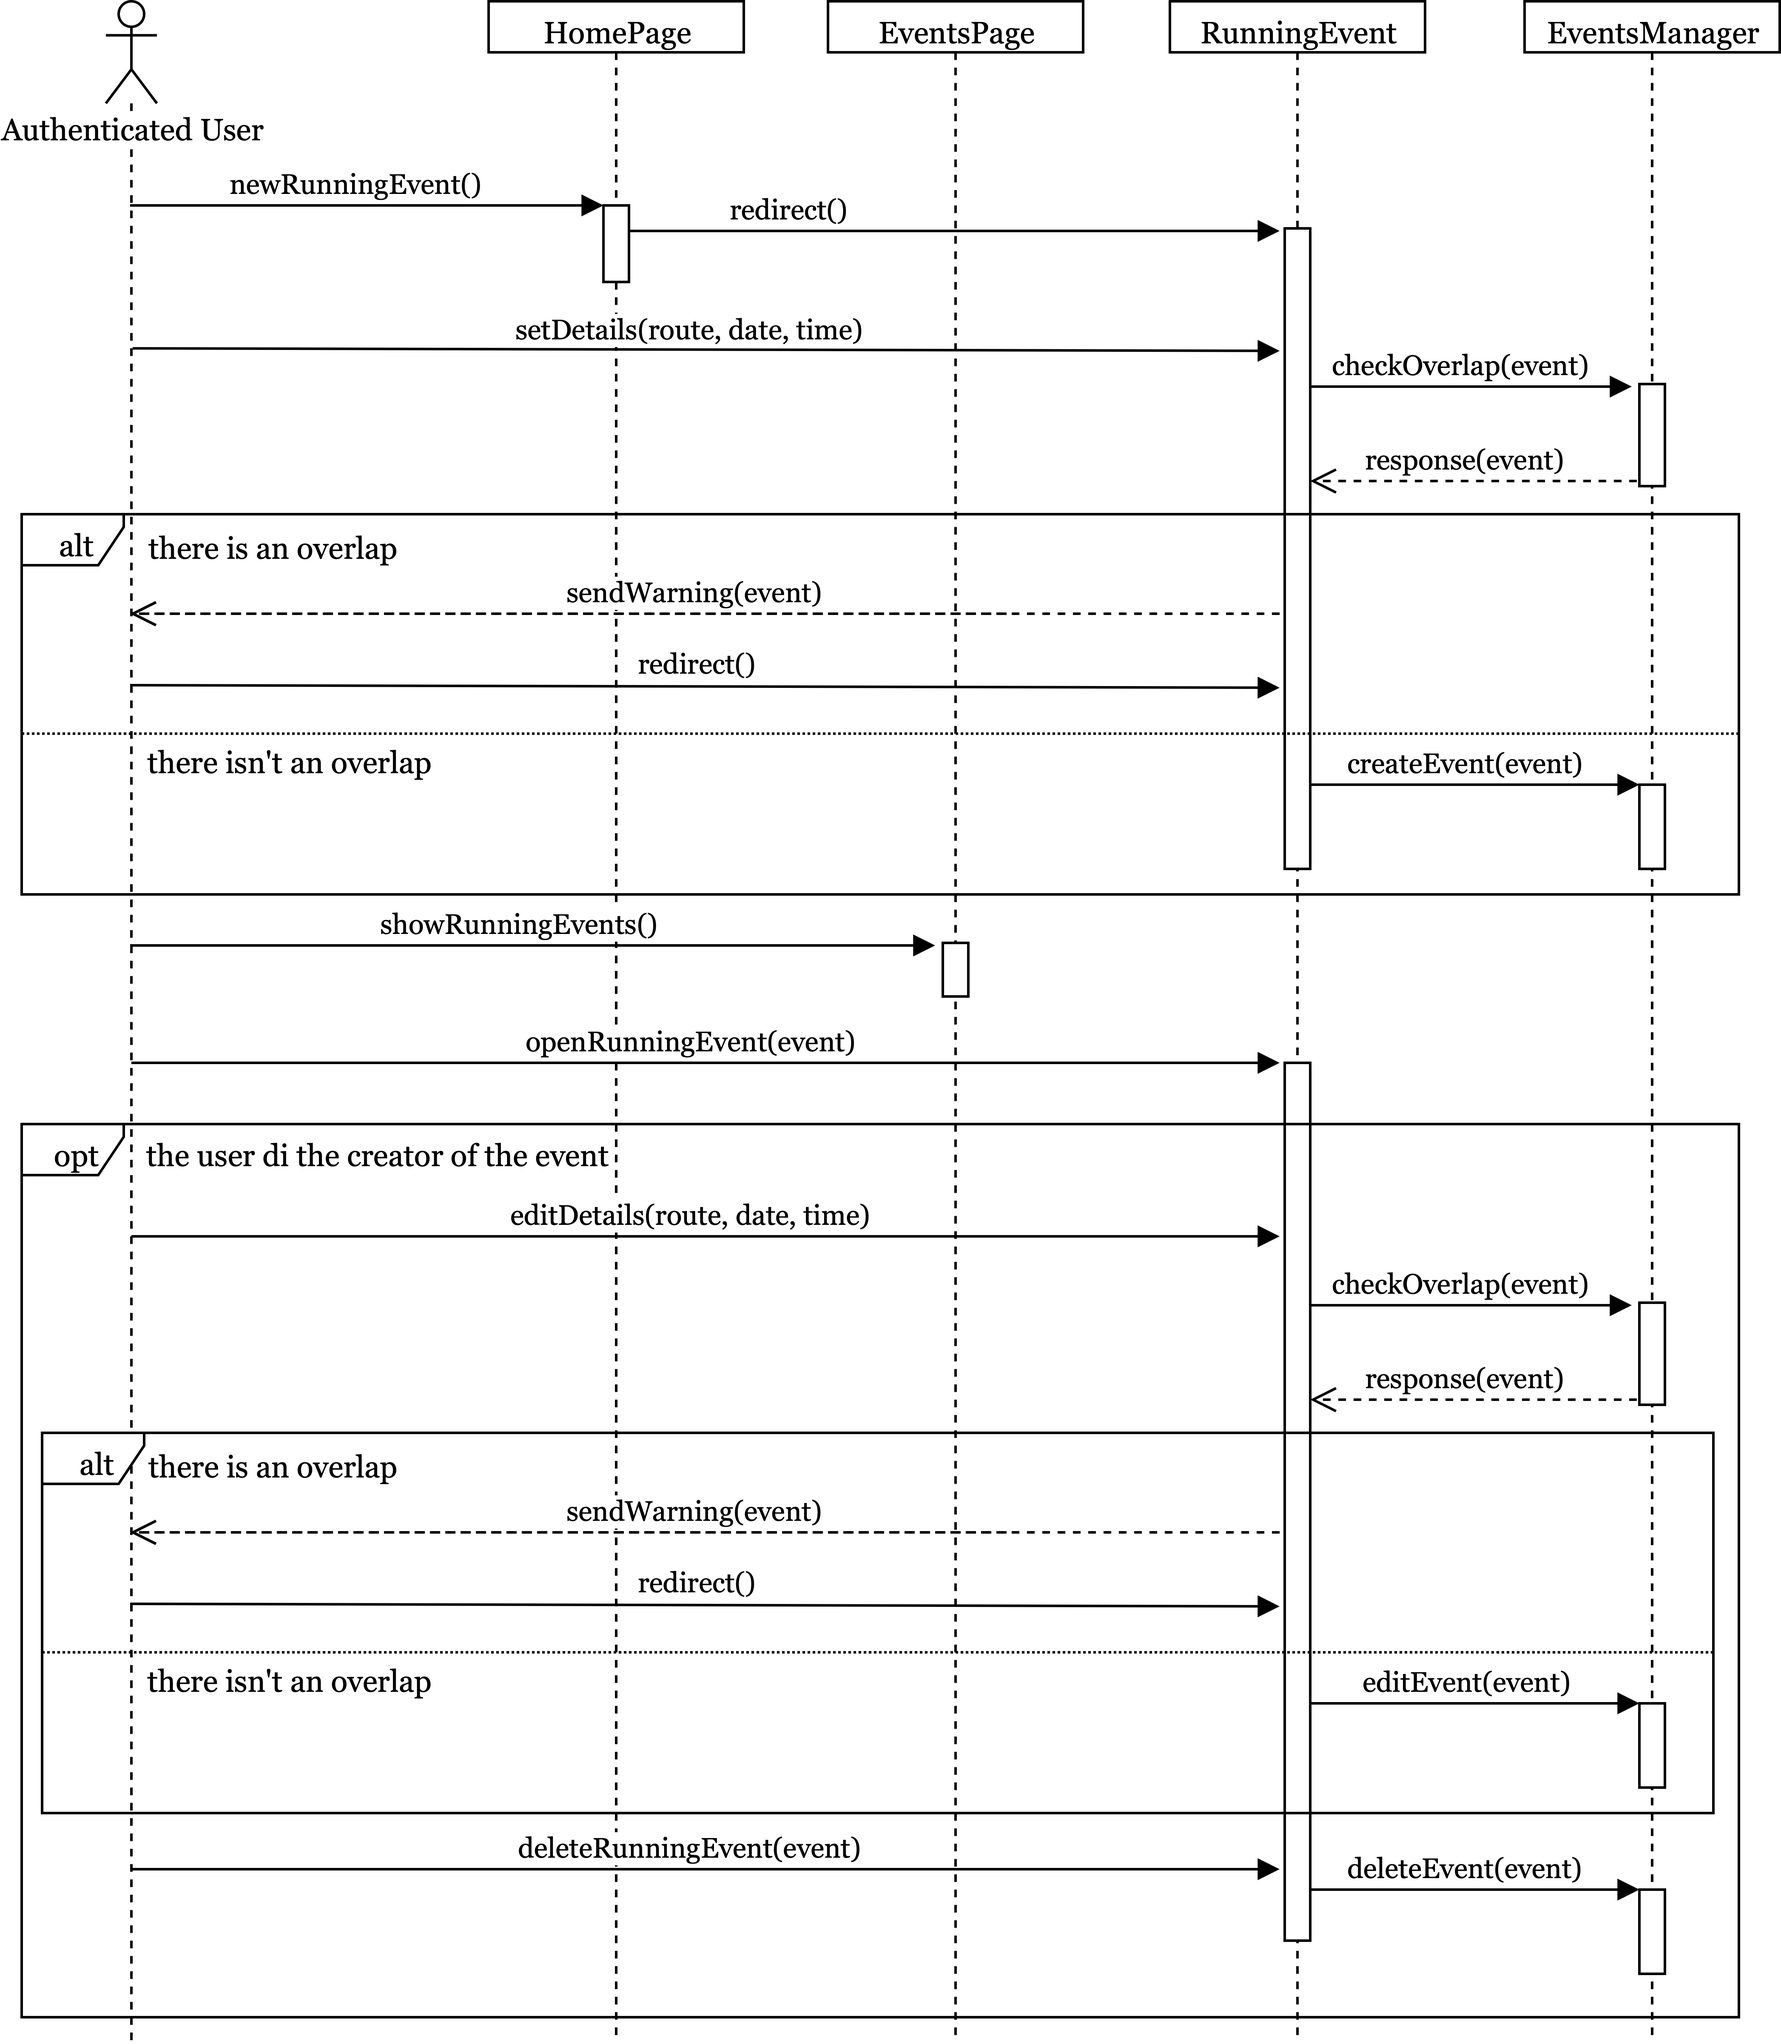
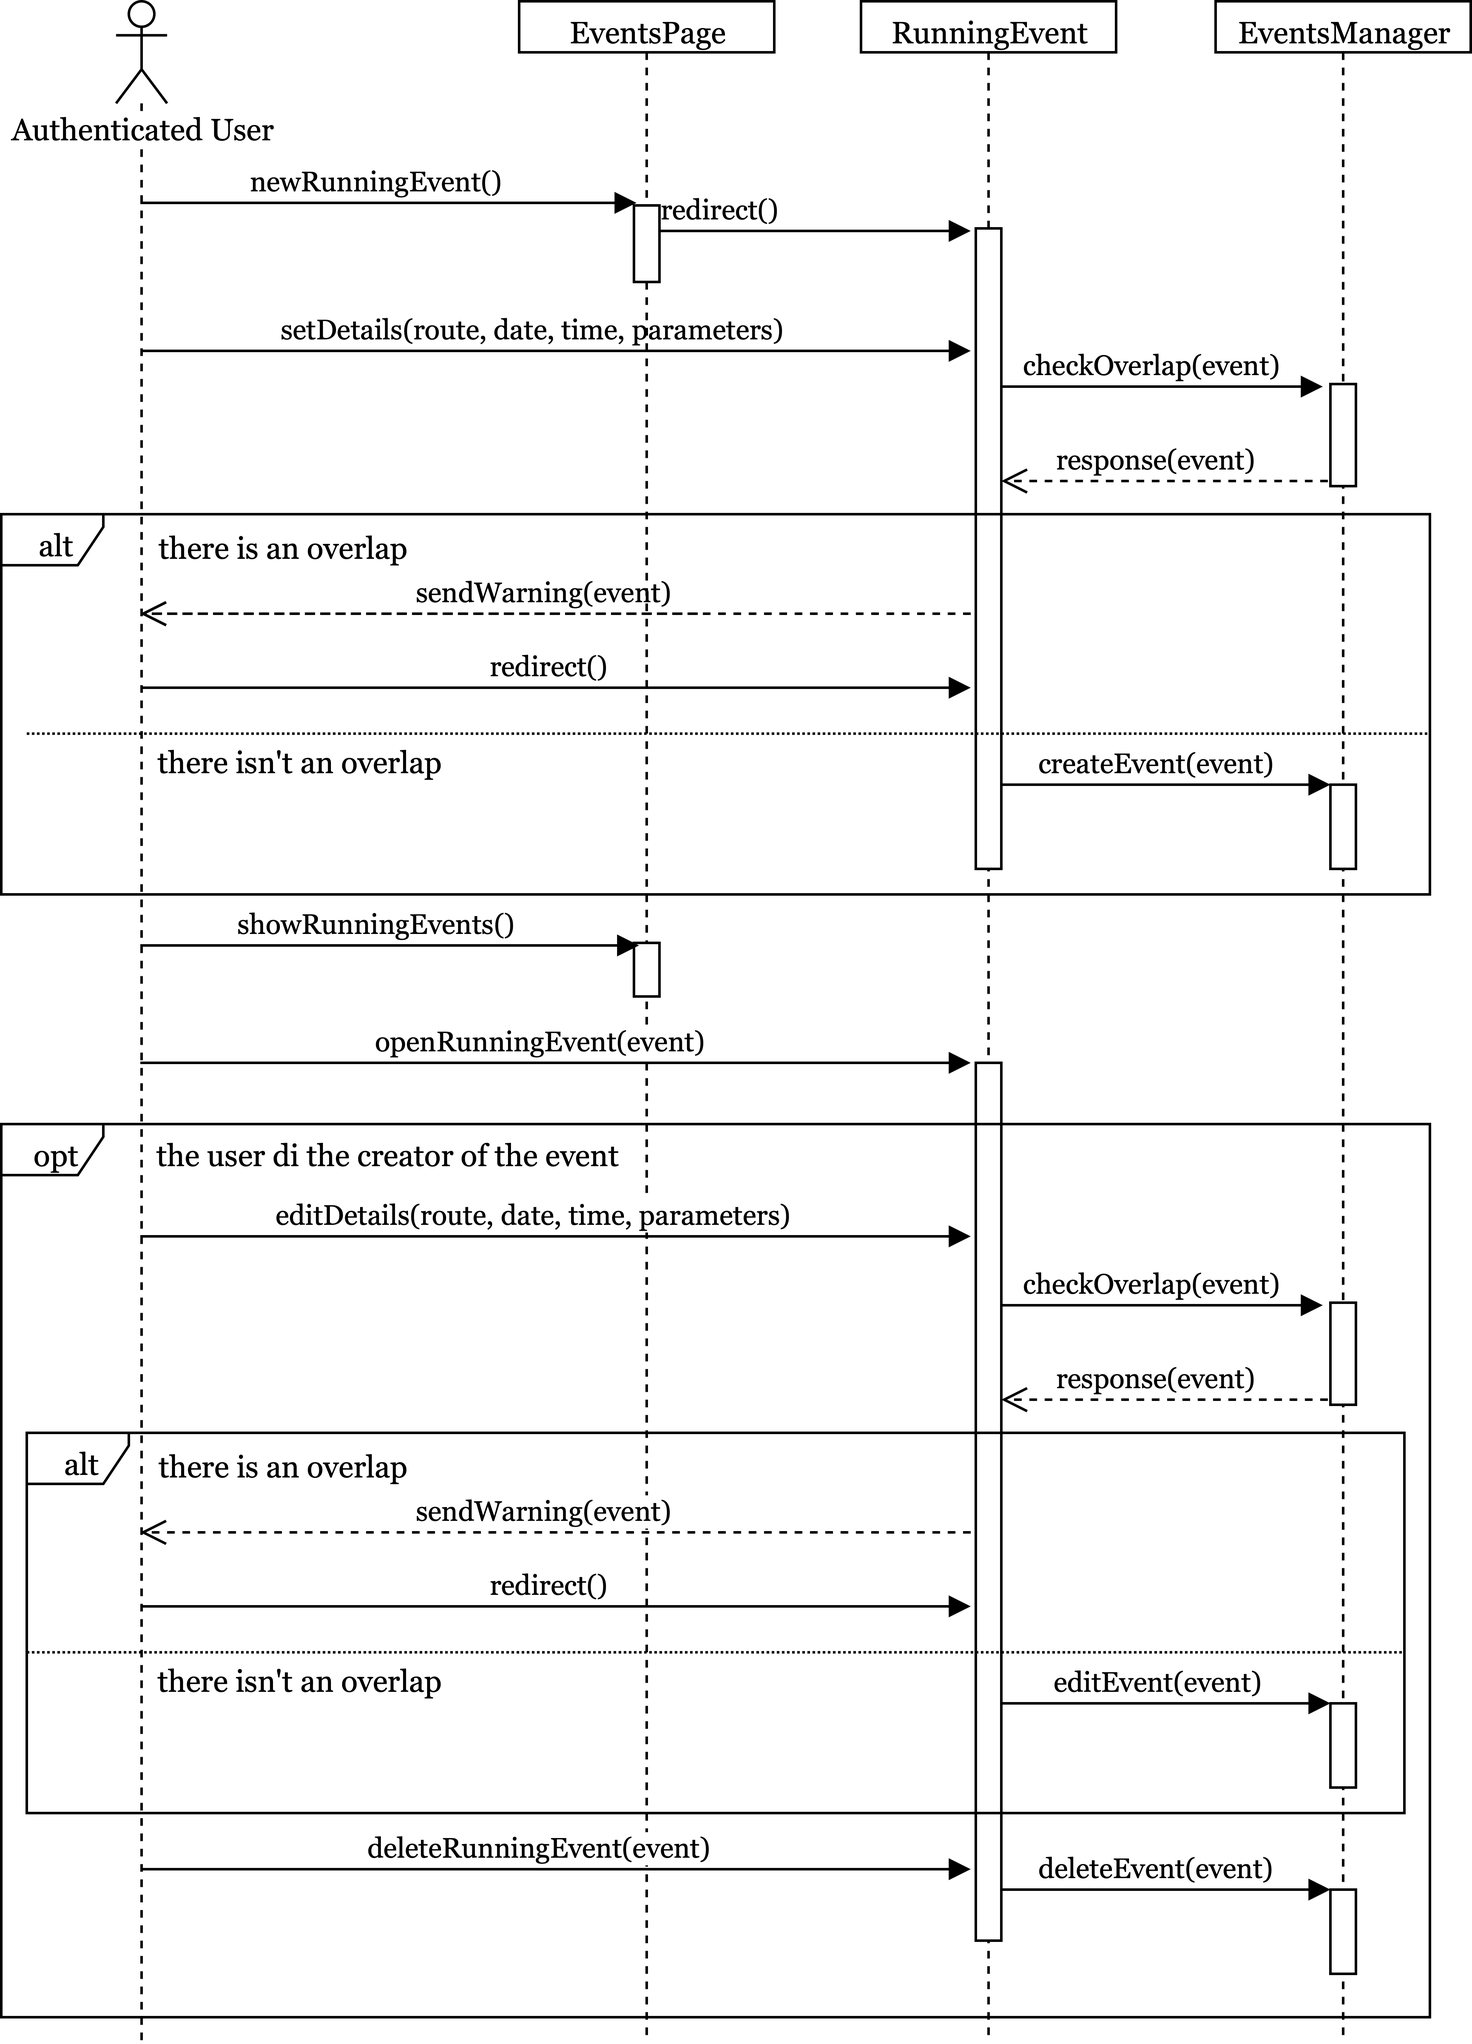
fix sqd4, use case and effort

diff --git a/RASD/sections/specificRequirements.tex b/RASD/sections/specificRequirements.tex
@@ -348,12 +348,12 @@ Communication between a third party company and our system will go through HTTPS
 			\hline
 			\textbf{Actor} & Authenticated User\\
 			\hline
-			\textbf{Entry condition} & The authenticated user is on the home page and wants to organize a running event.\\
+			\textbf{Entry condition} & The authenticated user is on the events page and wants to organize a running event.\\
 			\hline
 			\textbf{Flow of events} & \begin{enumerate}
 				\linespread{0}\item The authenticated user clicks "New running event".
-				\linespread{0}\item The authenticated user selects the route, date and time.
-				\linespread{0}\item The authenticated user clicks "Confirm".
+				\linespread{0}\item The authenticated user selects the route, date, time and fills all mandatory fields.
+				\linespread{0}\item The authenticated user clicks "Done".
 			\end{enumerate}\\
 			\hline
 			\textbf{Exit condition} & The running event is organized and now users can view it and enroll to it.\\
@@ -420,7 +420,7 @@ Communication between a third party company and our system will go through HTTPS
 			\hline
 			\textbf{Flow of events} & \begin{enumerate}
 				\linespread{0}\item The authenticated user clicks on "Edit".
-				\linespread{0}\item The authenticated user changes route, date and time.
+				\linespread{0}\item The authenticated user changes route, date and time or any other field.
 				\linespread{0}\item The authenticated user clicks "Save".
 			\end{enumerate}\\
 			\hline
@@ -475,7 +475,11 @@ Communication between a third party company and our system will go through HTTPS
 			\hline
 			\textbf{Exit condition} & The user is enrolled to the running event selected.\\
 			\hline
-			\textbf{Exception}\\
+			\textbf{Exception} & \begin{enumerate}
+				\linespread{0}\item No more participants are allowed in the run.
+			\end{enumerate}\\
+			\hline
+			\textbf{Note} & When an exception occurs the user is not enrolled to the event.\\
 			\hline
 		\end{tabular}
 	\end{center}

diff --git a/RASD/sections/effortSpent.tex b/RASD/sections/effortSpent.tex
@@ -47,8 +47,8 @@
 			26/10/18 & \makebox[1.8cm][c]{2h} & \makebox[6.7cm][c]{Purpose, Scope}\\
 			29/10/18 & \makebox[1.8cm][c]{6h} & \makebox[6.7cm][c]{Use Cases}\\
 			31/10/18 & \makebox[1.8cm][c]{6h} & \makebox[6.7cm][c]{Use Cases, Scenarios}\\
-			03/11/18 & \makebox[1.8cm][c]{4h} & \makebox[6.7cm][c]{Scenarios}\\
-			04/11/18 & \makebox[1.8cm][c]{1h} & \makebox[6.7cm][c]{UML Class \& State Machine Diagrams}\\
+			02/11/18 & \makebox[1.8cm][c]{4h} & \makebox[6.7cm][c]{Scenarios}\\
+			03/11/18 & \makebox[1.8cm][c]{1h} & \makebox[6.7cm][c]{UML Class \& State Machine Diagrams}\\
 			05/11/18 & \makebox[1.8cm][c]{4h} & \makebox[6.7cm][c]{Scenarios, Sequence Diagrams}\\
 			08/11/18 & \makebox[1.8cm][c]{2h} & \makebox[6.7cm][c]{Sequence Diagramm, Alloy}\\
 			09/11/18 & \makebox[1.8cm][c]{2h} & \makebox[6.7cm][c]{Sequence Diagram, Revisioning}\\
@@ -77,8 +77,8 @@
 			03/11/18 & \makebox[1.8cm][c]{4h} & \makebox[6.7cm][c]{Mockups}\\
 			05/11/18 & \makebox[1.8cm][c]{1h} & \makebox[6.7cm][c]{Scenarios, Sequence Diagram}\\
 			08/11/18 & \makebox[1.8cm][c]{4h} & \makebox[6.7cm][c]{Mockups, Sequence Diagramm, Alloy}\\
-			09/11/18 & \makebox[1.8cm][c]{4h} & \makebox[6.7cm][c]{Alloy, performance Requirements}\\
-			10/11/18 & \makebox[1.8cm][c]{4h} & \makebox[6.7cm][c]{performance requirements, Revisioning}\\
+			09/11/18 & \makebox[1.8cm][c]{4h} & \makebox[6.7cm][c]{Alloy, Performance Requirements}\\
+			10/11/18 & \makebox[1.8cm][c]{4h} & \makebox[6.7cm][c]{Performance Requirements, Revisioning}\\
 			11/11/18 & \makebox[1.8cm][c]{4h} & \makebox[6.7cm][c]{Revisioning}\\
 			total    & \makebox[1.8cm][c]{36h}
 		\end{tabular}
